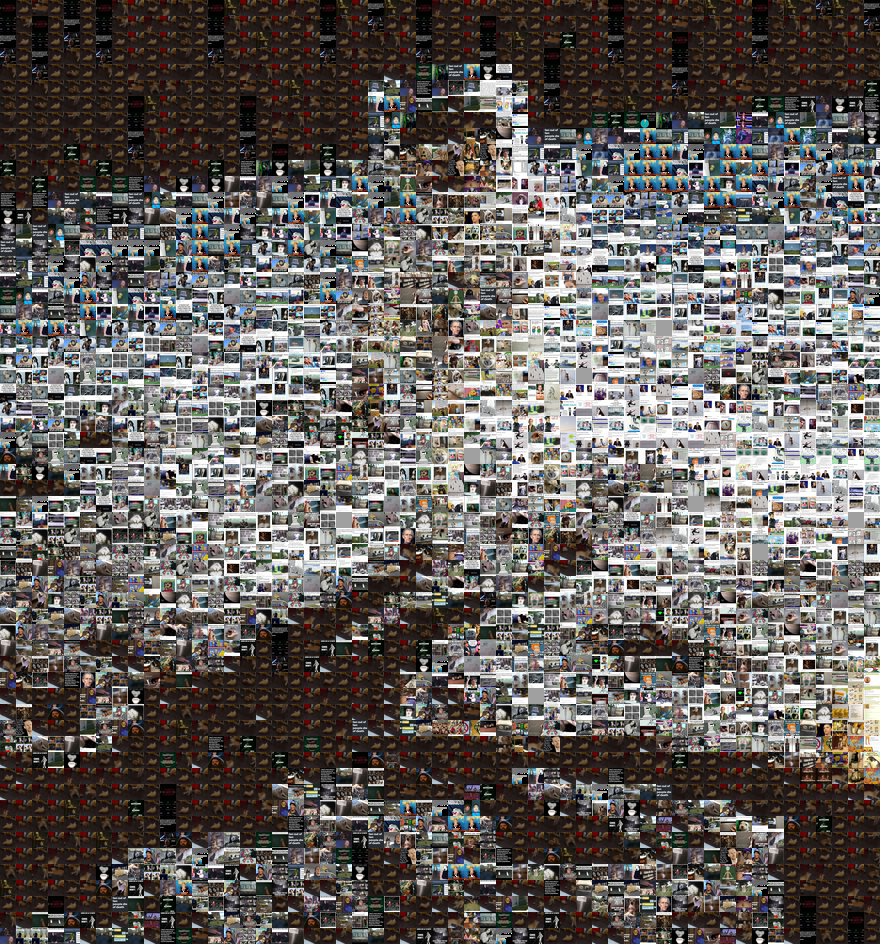
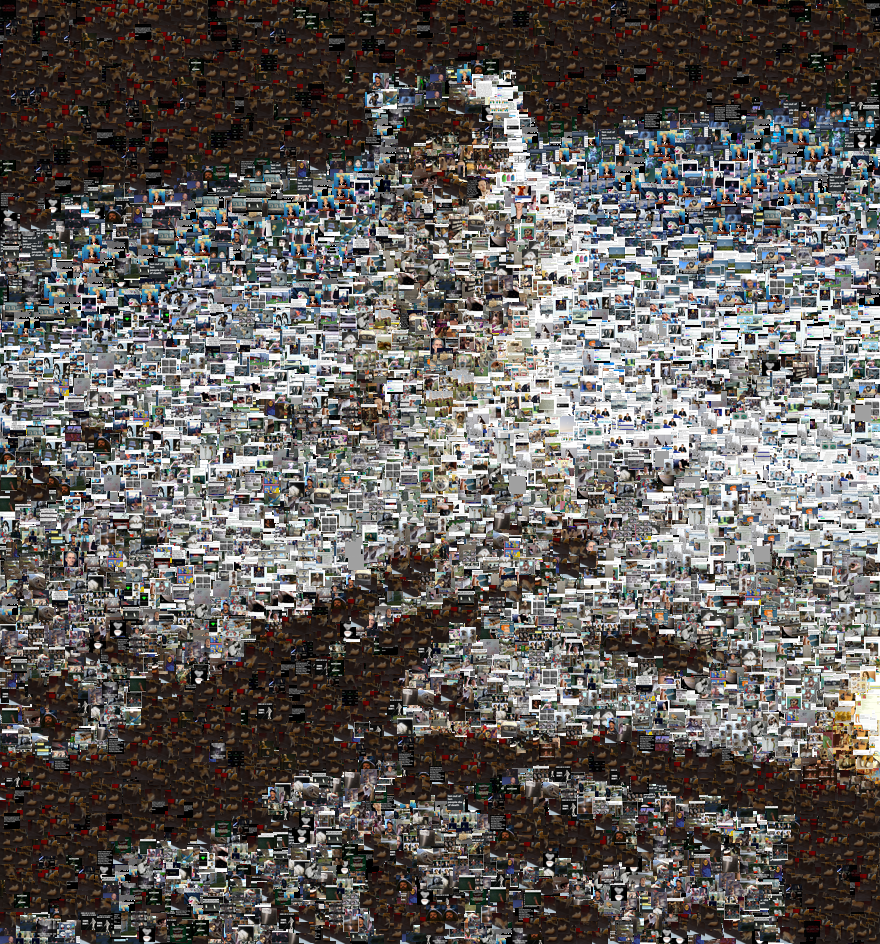
Added ability for tiles to cover random positions, and not just grid aligned locations.

diff --git a/PyImgMosaic.py b/PyImgMosaic.py
@@ -8,31 +8,33 @@ import os
 import sys
 from subprocess import call
 from math import sqrt
+from random import randint
 
 """ Create a directory called 'img_src' in the same
 location as this script.  Populate this directory with
 images that you want to use as small tiles. """
 
-""" Invoke this program with two mandatory command line args
-    and one optional third argument:
-	1) The image file to reproduce.
-	2) The size of tile to use in the reproduction
-    3) An error threshold, that when exceed, adds previously
-       used tiles back into the mix of available tiles.  
+""" Invoke this program with up to four command line arguments:
+	1) (mandatory) -f The image file to reproduce.
+	2) (mandatory) -s The size of tile to use in the reproduction
+	3) (optional) -e An error threshold, that when exceed, adds previously
+	   used tiles back into the mix of available tiles.
+	4) (optional) -r A percentage of tiles to place cover randomly (not grid aligned)
 
-Example: python PyImgMoasic.py moon.jpg 16
+Example: python PyImgMoasic.py -f moon.jpg -s 16 -r 20
 
 Output is written to filename_out.png, i.e. 
  moon_out.png.
 
 """
 
-target_img  = None
+target_img = None
 tiles = {} # key is filename, value is avg RGB
 discarded = {} # store for used images
 tilesize = None
 threshold = 66 # determined by experimenting
 source_path = "./img_scaled/"
+rnd_cover = 15
 
 # returns average (r, g, b) value tuple for an an image
 def rank_image(im):
@@ -67,7 +69,7 @@ def best_match(val):
 			err = score	
 			match = k
 	if match == None or err > threshold: # ran out of good images
-		print("Tripped error threshold.")	
+		print("Tripped error threshold: " + str(err))
 		tiles.update(discarded) # put previously discarded images back in play
 		discarded = {}
 		for k,v in tiles.items():
@@ -81,19 +83,25 @@ def best_match(val):
 		exit()
 	return match
 
-if __name__ == "__main__":
-
-	if len(sys.argv) < 3:
-		print("Usage: python PyImgMoasic.py filename tilesize [error]")
-		print("Example: python PyImgMoasic.py moon.jpg 16")
-		print("Default value for error is 66.")
+def print_usage():
+		print("Usage: python PyImgMoasic.py -f filename -s tilesize [-e error] [-r random_placement]")
+		print("Example: python PyImgMoasic.py -f moon.jpg -s 16")
+		print("Default value for error is " + str(threshold) + ".")
+		print("Default value for random placement is " + str(rnd_cover) + ".")
 		exit()
 
+if __name__ == "__main__":
+
+	if len(sys.argv) < 5 or '-f' not in sys.argv or '-s' not in sys.argv:
+		print_usage() # show proper format and exit
+
 	# Read user set parameters, and update source path
-	target_img = sys.argv[1]
-	tilesize = int(sys.argv[2])
-	if len(sys.argv) > 3:
-		threshold = int(sys.argv[3])
+	target_img = sys.argv[sys.argv.index('-f') + 1]
+	tilesize = int(sys.argv[sys.argv.index('-s') + 1])
+	if '-e' in sys.argv:
+		threshold = int(sys.argv[sys.argv.index('-e') + 1])
+	if '-r' in sys.argv:
+		rnd_cover = int(sys.argv[sys.argv.index('-r') + 1])
 	source_path += str(tilesize) + "/"
 	
 	# Use bash script and ImageMagic for conversion process
@@ -139,8 +147,28 @@ if __name__ == "__main__":
 			if match_img.mode is not 'RGBA' or 'RGB': # prevent errors with B&W images
 				match_img = match_img.convert('RGB')
 			# place tile in appropriate location of our output image
-			out_img.paste(match_img, box, None) 
+			out_img.paste(match_img, box, None)
 
+	# cover rnd_cover percent of the image with tiles not aligned to grid
+	for r in range(int(width*height*rnd_cover/100./tilesize)):
+		x = randint(1,width-tilesize-1)
+		y = randint(1,height-tilesize-1)
+		if x % tilesize == 0:
+			x+=1
+		if y % tilesize == 0:
+			y+=1
+		box = (x, y, x+tilesize, y+tilesize)
+		region = target.crop(box)
+		# find the average RGB value of the tile
+		match = best_match(rank_image(region))
+		# take match out of availability
+		discarded.update({match:tiles[match]})
+		del tiles[match]
+		match_img = Image.open(source_path+match)
+		if match_img.mode is not 'RGBA' or 'RGB': # prevent errors with B&W images
+			match_img = match_img.convert('RGB')
+		# place tile in appropriate location of our output image
+		out_img.paste(match_img, box, None)
 
 	# save output and show the user
 	out_img.save(target_img+"_out.png", "PNG")

diff --git a/README.md b/README.md
@@ -9,15 +9,16 @@ Reproduce images from smaller image tiles
 This program makes pictures from lots of other smaller pictures (kind of like those posters that you see in various places.)
 
 Simple overview:  
-  User uploads cache of images to be converted into small tiles to the `img_src` directory.  
-  User selects an image to reproduce and determines a tile size (i.e. 32px by 32 px)  
-  User runs `python PyImgMosaic.py inputfile 32` where `32` is your desired tile size.  
-    o Python uses the helper bash script `scaler.sh`, which in turn invokes ImageMagic's convert tool to build a pool of scaled down images.  
-    o  These images remain available as long as they aren't deleted.  The script will not repeat effort to shrink images if the output files already exist.  
-   The Python program first reads this cache and determines the average RGB value of the image, and saves it in a Dictionary.  
-   The input file is read in tile sized blocks.  The average value of the block is used to find the closest match in the dictionary.  This found tile is placed in the correct spot of the output image.  
-   Once tiles are used, they are set aside until we either run out of tiles, or an error threshold value is exceeded (i.e. none of the matches are close.)  When this happens, all previously used tiles become available again.  
-  The program writes the output image to disk and displays it to the user.  
+ o User uploads cache of images to be converted into small tiles to the `img_src` directory.  
+ o User selects an image to reproduce and determines a tile size (i.e. 32px by 32 px)  
+ o User runs `python PyImgMosaic.py -f inputfile -s 32` where `32` is your desired tile size.  
+    - Python uses the helper bash script `scaler.sh`, which in turn invokes ImageMagic's convert tool to build a pool of scaled down images.  
+    -  These images remain available as long as they aren't deleted.  The script will not repeat effort to shrink images if the output files already exist.  
+ o The Python program first reads this cache and determines the average RGB value of the image, and saves it in a Dictionary.  
+ o The input file is read in tile sized blocks.  The average value of the block is used to find the closest match in the dictionary.  This found tile is placed in the correct spot of the output image.  
+ o Once tiles are used, they are set aside until we either run out of tiles, or an error threshold value is exceeded (i.e. none of the matches are close.)  When this happens, all previously used tiles become available again.  
+ o A certain percentage of tiles are placed randomly (not grid aligned) based on default or user settings.  
+ o The program writes the output image to disk and displays it to the user.  
 
 # Limits
 
